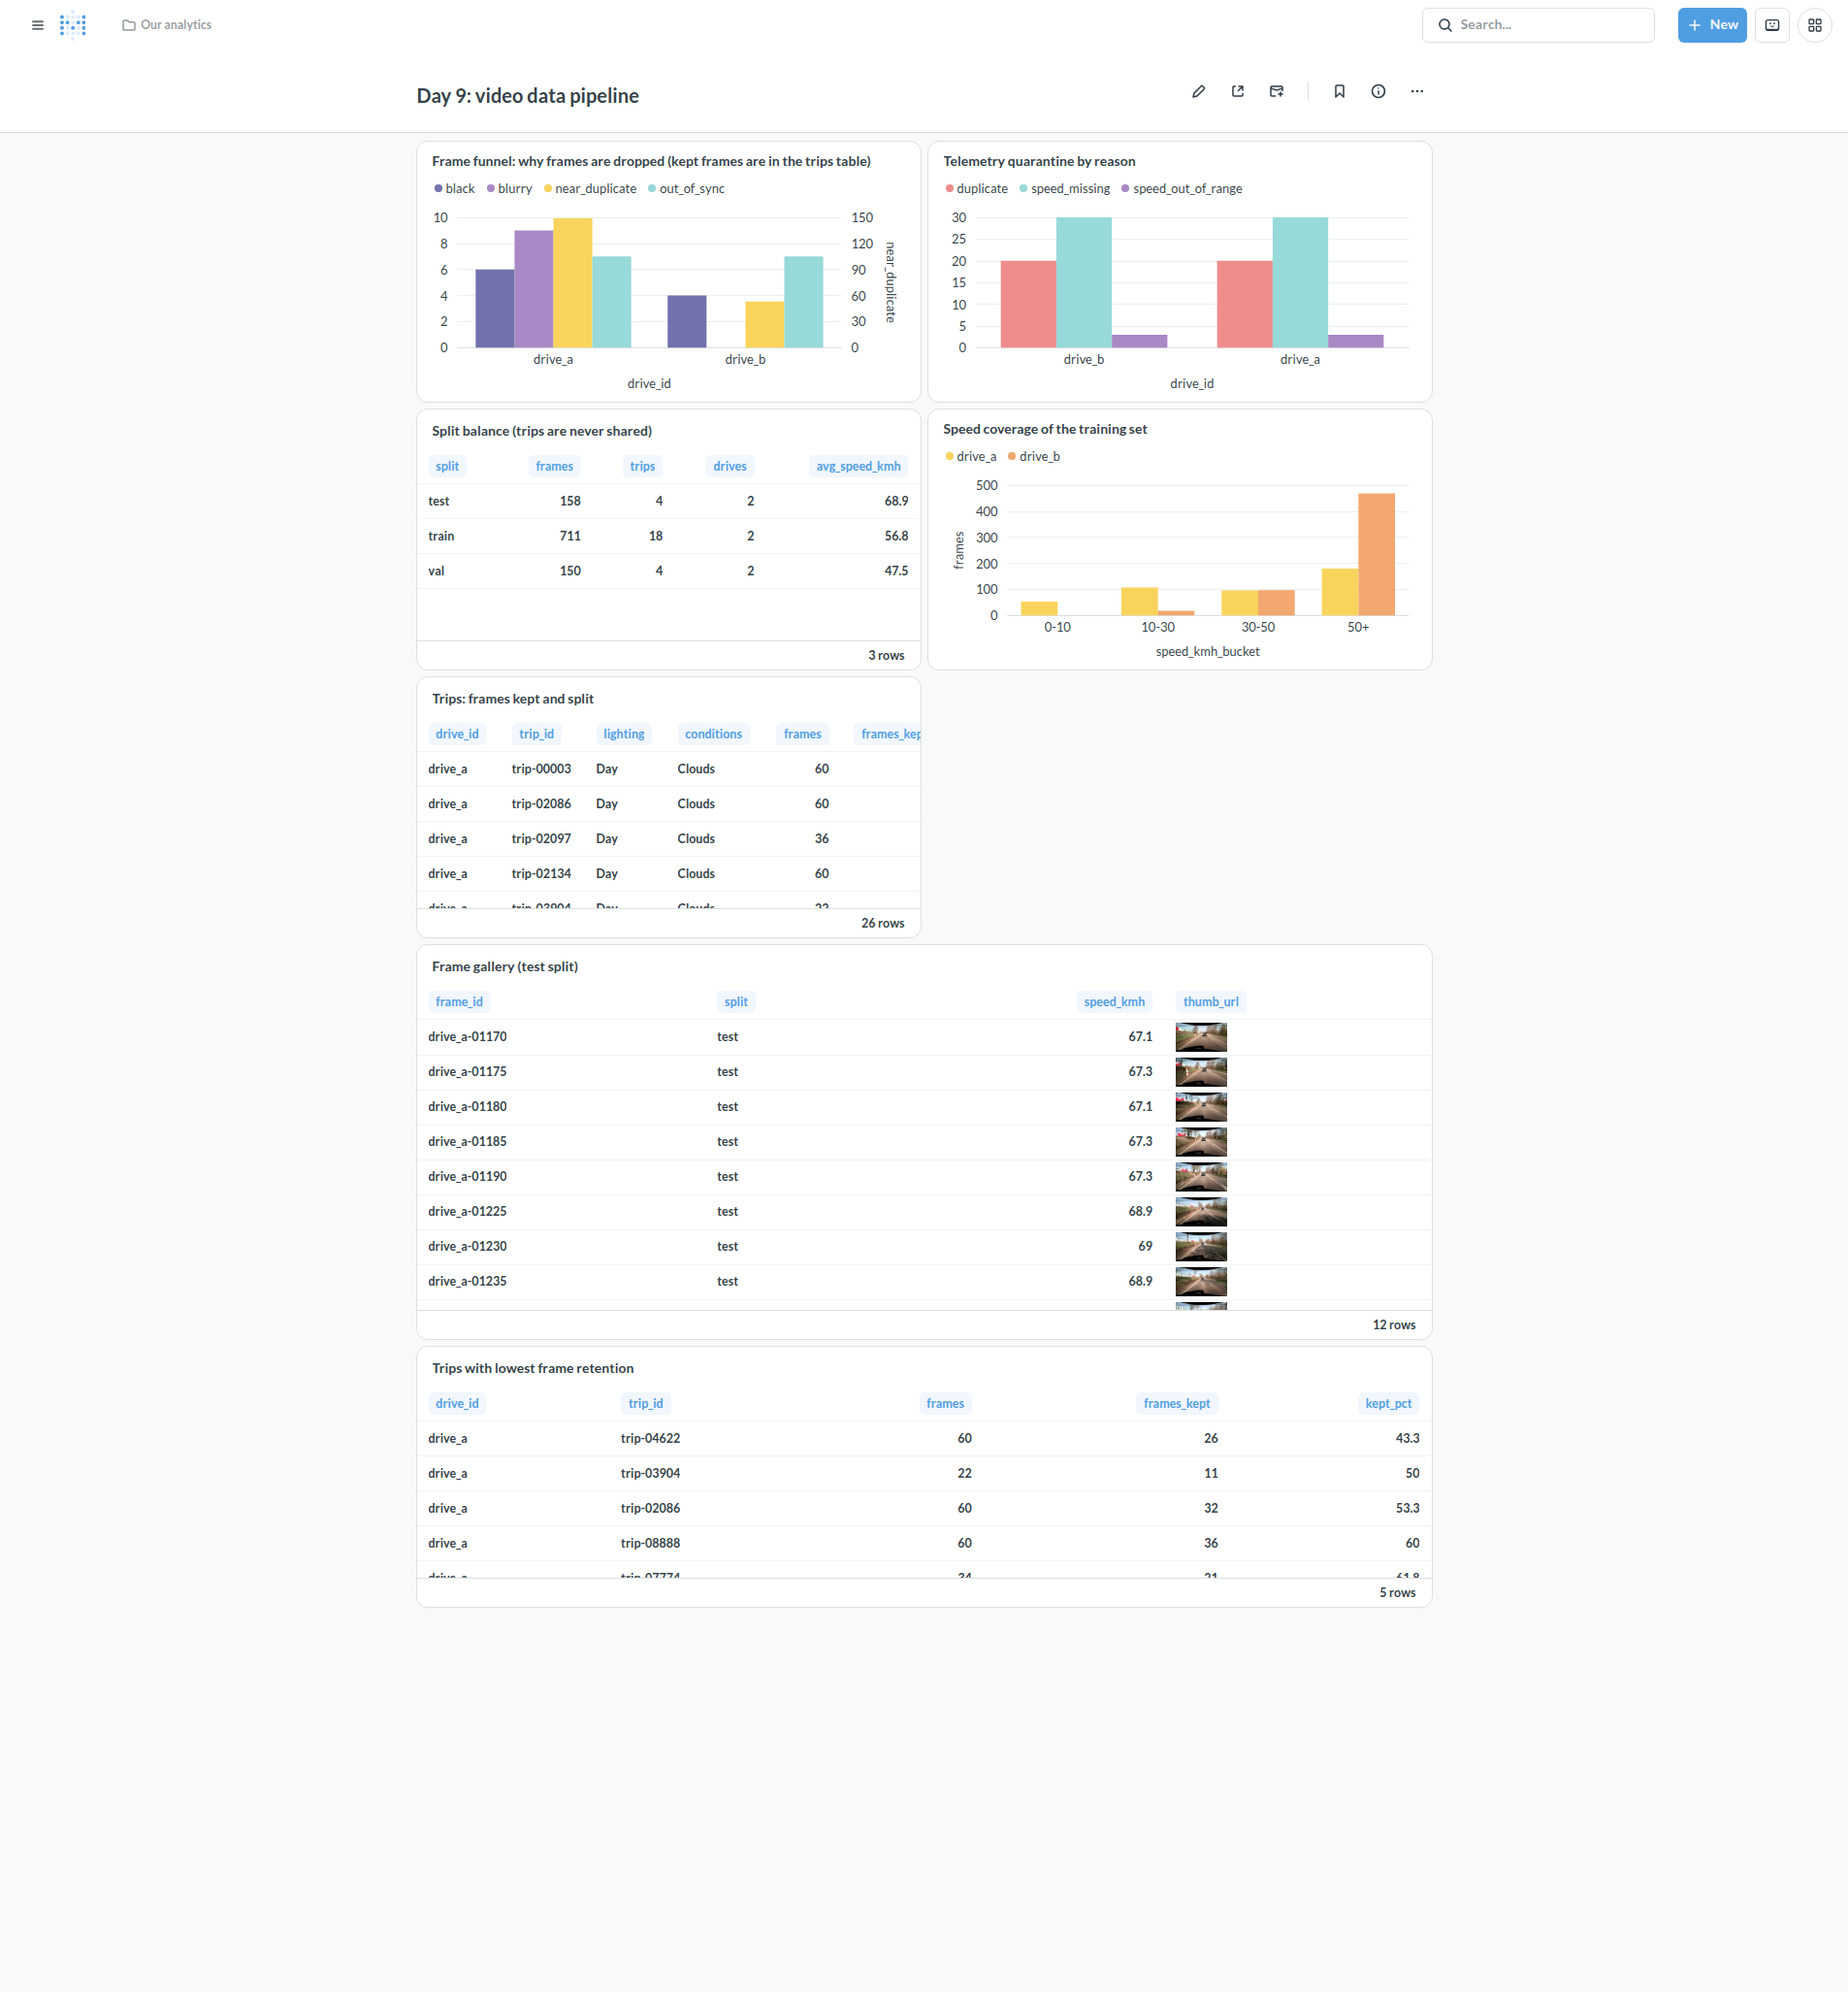
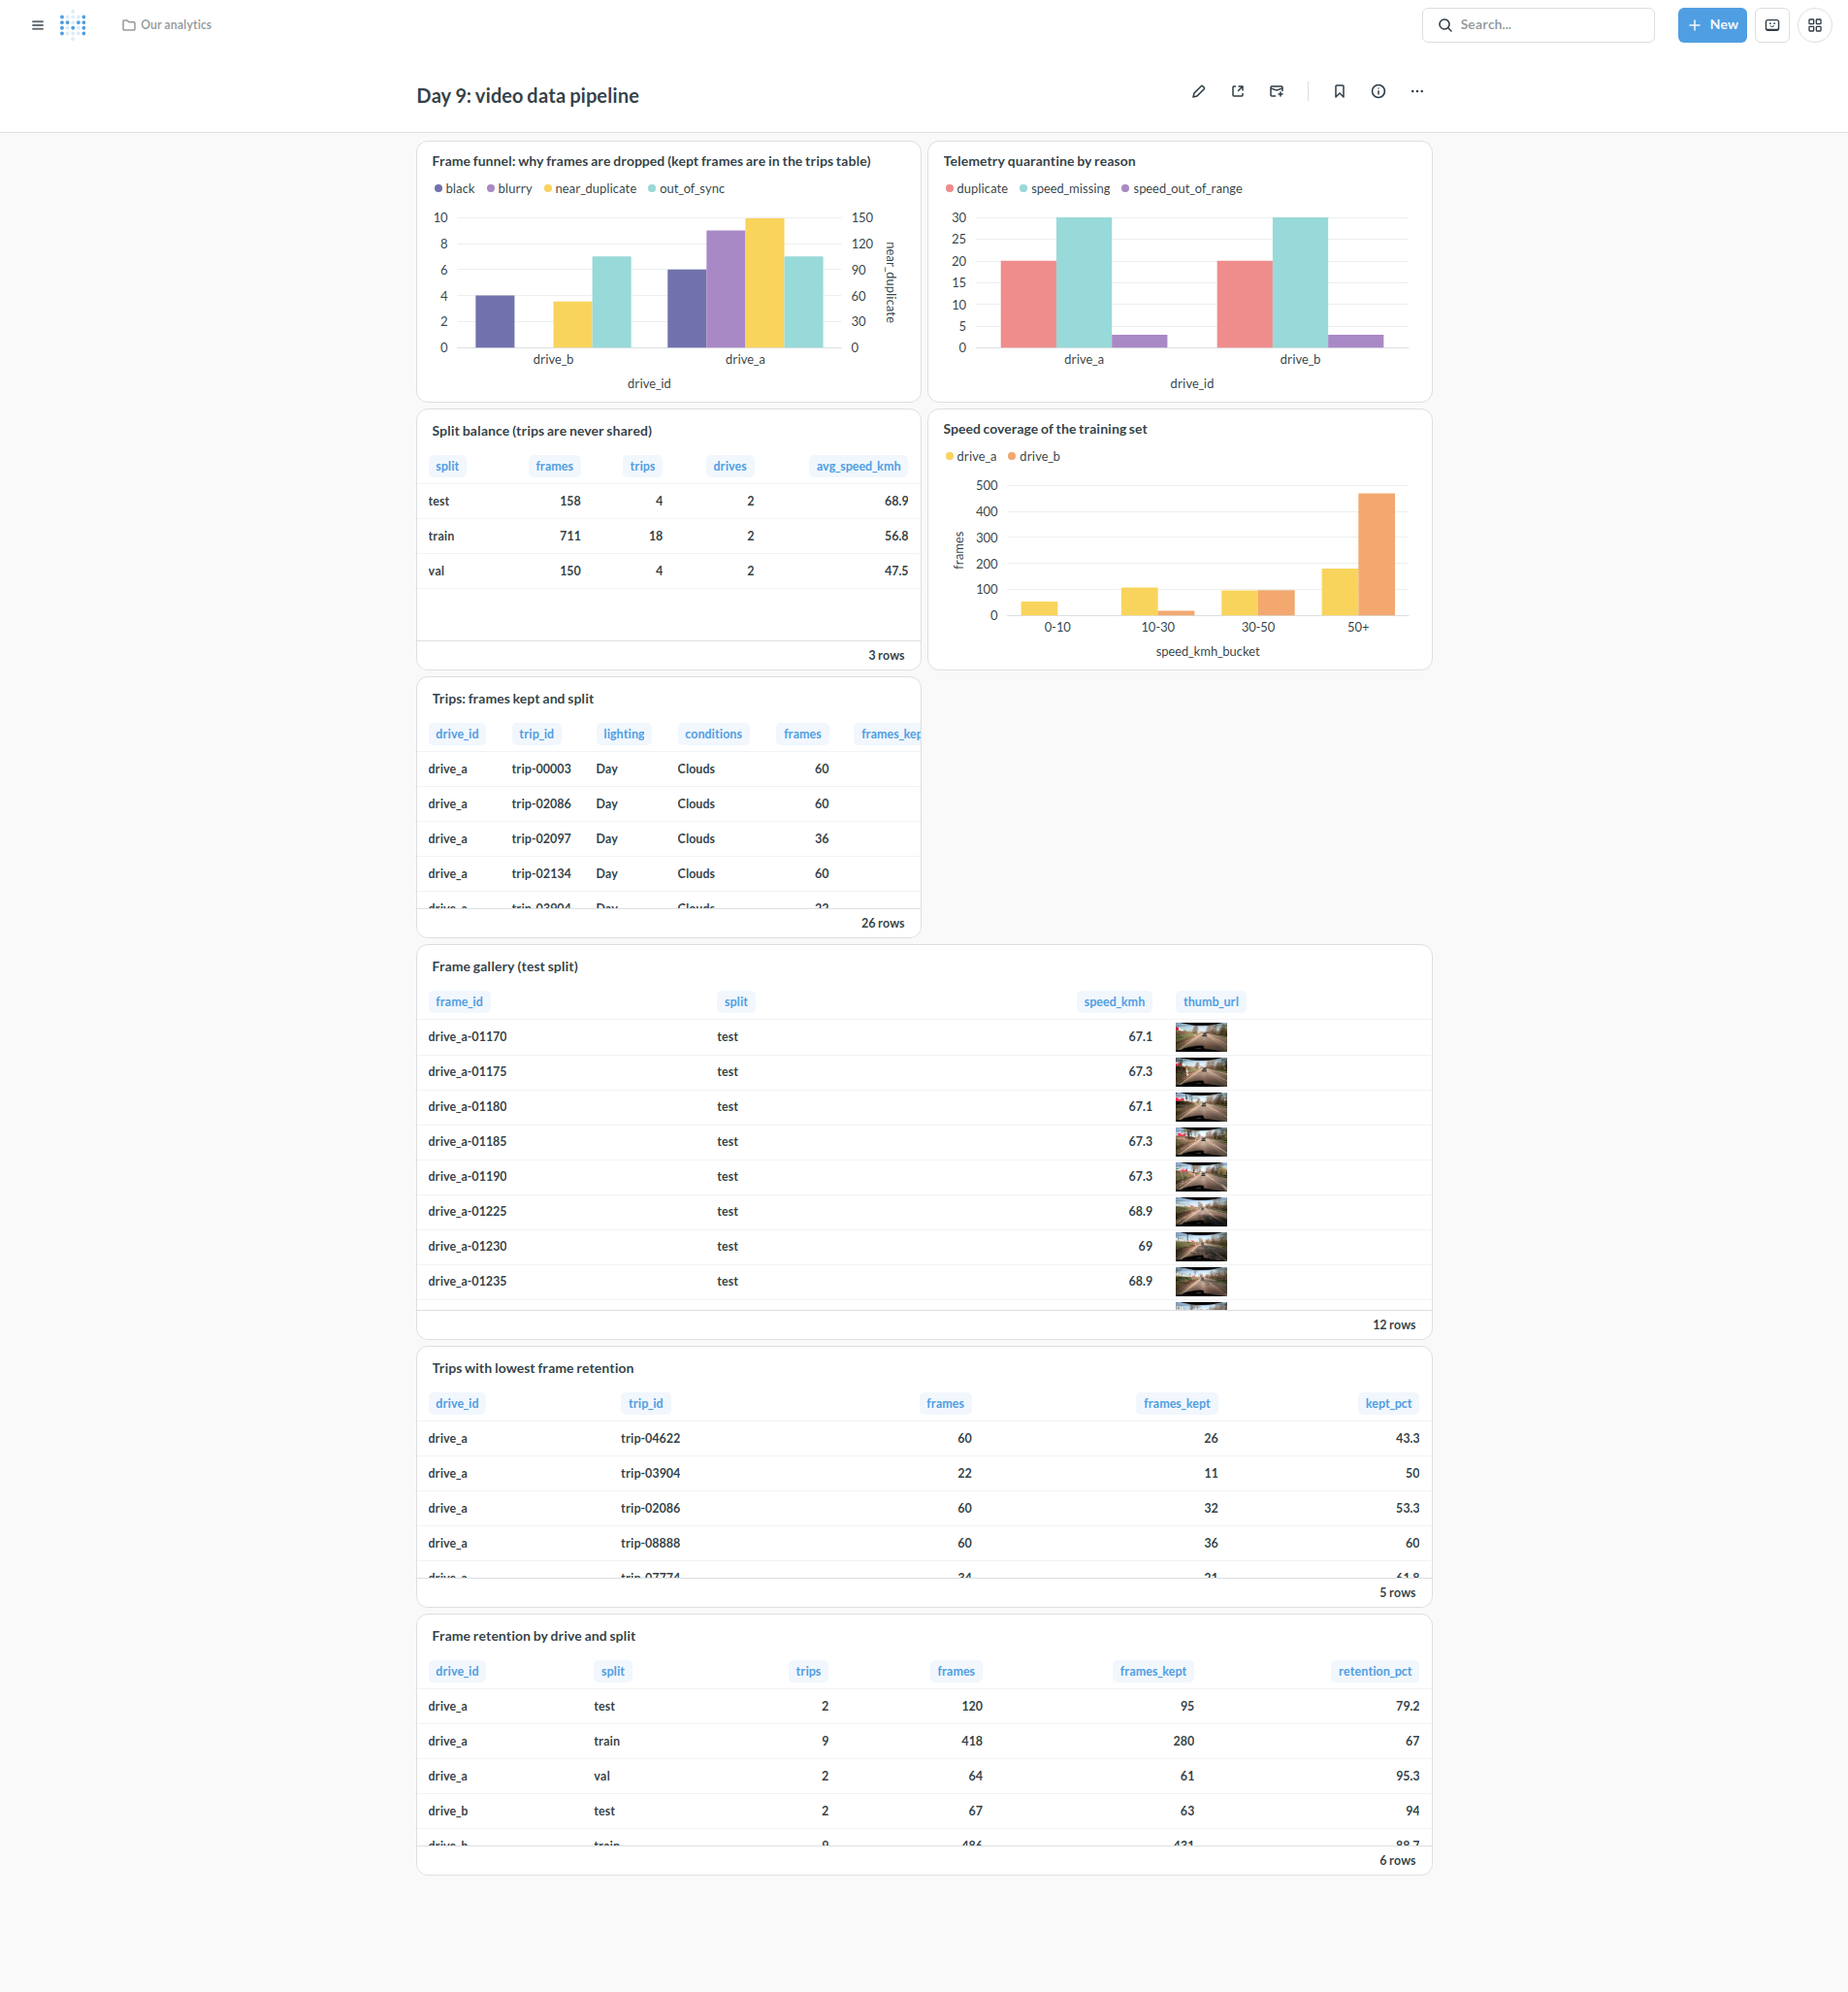
chore: hoàn thiện bonus lab day 9

diff --git a/REPORT.md b/REPORT.md
@@ -102,11 +102,21 @@ DuckDB hiện ghi vào một file `work/lakehouse.duckdb`; dữ liệu và phép
 
 ## Câu hỏi riêng của bạn trên Metabase
 
-Câu SQL bạn thêm vào dashboard và điều nó cho biết:
+Các câu SQL bạn thêm vào dashboard và điều chúng cho biết:
 
 Câu hỏi: trip nào giữ lại tỷ lệ frame thấp nhất sau kiểm tra chất lượng?
 `select drive_id, trip_id, frames, frames_kept, round(100.0 * frames_kept / nullif(frames, 0), 1) as kept_pct from marts.mart_trip_summary order by kept_pct, trip_id limit 5`
 Kết quả thấp nhất là `drive_a / trip-04622`: 26/60 khung được giữ, tức 43,3%; tiếp theo là `trip-03904`: 11/22, tức 50,0%. Các trip này nên được xem lại cờ chất lượng trước khi dùng để huấn luyện.
+
+Câu hỏi thứ hai (bonus): với từng drive và split, nhóm nào có tỷ lệ giữ frame thấp nhất để ưu tiên rà soát?
+`select drive_id, split, count(distinct trip_id) as trips, sum(frames) as frames, sum(frames_kept) as frames_kept, round(100.0 * sum(frames_kept) / nullif(sum(frames), 0), 1) as retention_pct from marts.mart_trip_summary group by drive_id, split order by drive_id, split`
+Kết quả thấp nhất là `drive_a / train`: giữ 280/418 frame (67,0%), so với `drive_b / train` giữ 431/486 (88,7%). Dashboard giúp ưu tiên rà soát nhóm drive_a/train.
+
+## Bonus · Thí nghiệm riêng
+
+Tôi tăng `sync_tol_ms` từ 150 ms lên 1.000 ms và chạy lại model `silver_frame_telemetry`. Ở 150 ms, drive A đồng bộ 595/602 frame, B 637/644; tổng cộng 14/1.246 frame mất đồng bộ.
+Ở 1.000 ms, A đồng bộ 597/602, B 638/644; số frame mất đồng bộ giảm từ 14 xuống 11, tức giảm 3 frame (21,4%). Ngưỡng rộng hơn có thể ghép frame với telemetry cũ đến một giây, nên tôi khôi phục 150 ms.
+Sau khi khôi phục, `step all --reset` và kiểm tra toàn bộ đạt 27/27; `dataset_version` vẫn là `0365e9052597`.
 
 ## Nhìn lại
 
